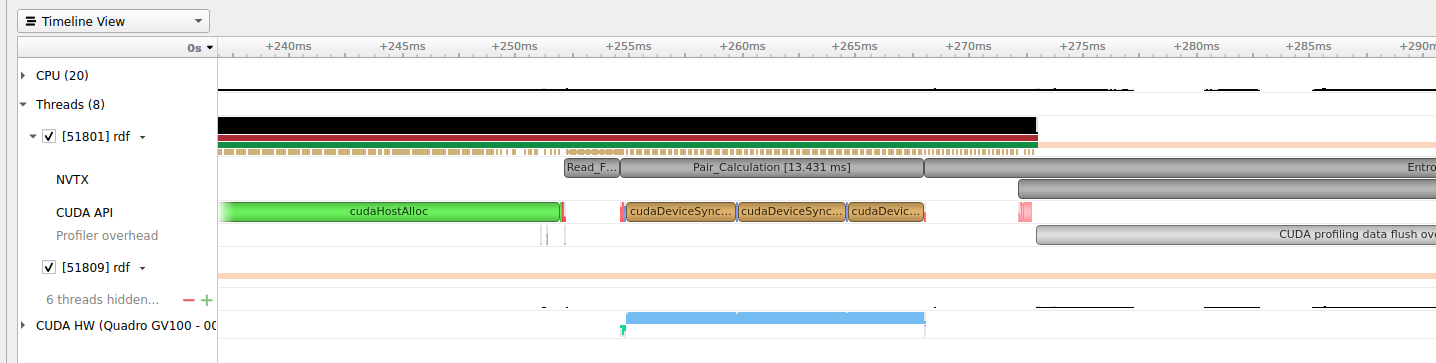
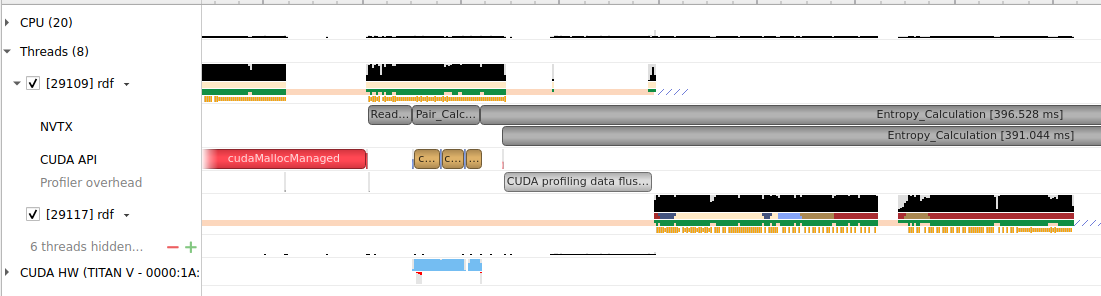
openmp fix,cuda UM added

diff --git a/hpc/nways/nways_labs/nways_MD/English/C/source_code/openmp/SOLUTION/rdf_offload_collapse.cpp b/hpc/nways/nways_labs/nways_MD/English/C/source_code/openmp/SOLUTION/rdf_offload_collapse.cpp
@@ -1,4 +1,3 @@
-// Copyright (c) 2021 NVIDIA Corporation.  All rights reserved.
 #include <stdio.h>
 #include <iostream>
 #include <fstream>
@@ -82,10 +81,13 @@ int main(int argc, char *argv[])
     }
     nvtxRangePop(); //pop for REading file
     cout << "Reading of input file is completed" << endl;
-    //////////////////////////////////////////////////////////////////////////
-    nvtxRangePush("Pair_Calculation");
-    pair_gpu(h_x, h_y, h_z, h_g2, numatm, nconf, xbox, ybox, zbox, nbin);
-    nvtxRangePop(); //Pop for Pair Calculation
+//////////////////////////////////////////////////////////////////////////
+#pragma omp target data map(h_x [0:nconf * numatm], h_y [0:nconf * numatm], h_z [0:nconf * numatm], h_g2 [0:nbin])
+    {
+        nvtxRangePush("Pair_Calculation");
+        pair_gpu(h_x, h_y, h_z, h_g2, numatm, nconf, xbox, ybox, zbox, nbin);
+        nvtxRangePop(); //Pop for Pair Calculation
+    }
     ////////////////////////////////////////////////////////////////////////
     double pi = acos(-1.0);
     double rho = (numatm) / (xbox * ybox * zbox);
@@ -164,33 +166,30 @@ void pair_gpu(const double *d_x, const double *d_y, const double *d_z,
     cut = box * 0.5;
     int count = 0;
     printf("\n %d %d ", nconf, numatm);
-#pragma omp target data map(d_x [0:nconf * numatm], d_y [0:nconf * numatm], d_z [0:nconf * numatm], d_g2 [0:d_bin])
+    for (int frame = 0; frame < nconf; frame++)
     {
-        for (int frame = 0; frame < nconf; frame++)
-        {
-            printf("\n %d  ", frame);
+        printf("\n %d  ", frame);
 #pragma omp target teams distribute parallel for collapse(2) private(dx, dy, dz, r, ig2)
-            for (int id1 = 0; id1 < numatm; id1++)
+        for (int id1 = 0; id1 < numatm; id1++)
+        {
+            for (int id2 = 0; id2 < numatm; id2++)
             {
-                for (int id2 = 0; id2 < numatm; id2++)
+                dx = d_x[frame * numatm + id1] - d_x[frame * numatm + id2];
+                dy = d_y[frame * numatm + id1] - d_y[frame * numatm + id2];
+                dz = d_z[frame * numatm + id1] - d_z[frame * numatm + id2];
+
+                dx = dx - xbox * (round(dx / xbox));
+                dy = dy - ybox * (round(dy / ybox));
+                dz = dz - zbox * (round(dz / zbox));
+
+                r = sqrtf(dx * dx + dy * dy + dz * dz);
+                if (r < cut)
                 {
-                    dx = d_x[frame * numatm + id1] - d_x[frame * numatm + id2];
-                    dy = d_y[frame * numatm + id1] - d_y[frame * numatm + id2];
-                    dz = d_z[frame * numatm + id1] - d_z[frame * numatm + id2];
-
-                    dx = dx - xbox * (round(dx / xbox));
-                    dy = dy - ybox * (round(dy / ybox));
-                    dz = dz - zbox * (round(dz / zbox));
-
-                    r = sqrtf(dx * dx + dy * dy + dz * dz);
-                    if (r < cut)
-                    {
-                        ig2 = (int)(r / del);
+                    ig2 = (int)(r / del);
 #pragma omp atomic
-                        d_g2[ig2] = d_g2[ig2] + 1;
-                    }
+                    d_g2[ig2] = d_g2[ig2] + 1;
                 }
             }
-        } //frame ends
-    }     // end of target map
+        }
+    } //frame ends
 }

diff --git a/hpc/nways/nways_labs/nways_MD/English/C/source_code/openmp/SOLUTION/rdf_offload.cpp b/hpc/nways/nways_labs/nways_MD/English/C/source_code/openmp/SOLUTION/rdf_offload.cpp
@@ -1,4 +1,3 @@
-// Copyright (c) 2021 NVIDIA Corporation.  All rights reserved.
 #include <stdio.h>
 #include <iostream>
 #include <fstream>
@@ -82,10 +81,13 @@ int main(int argc, char *argv[])
 	}
 	nvtxRangePop(); //pop for REading file
 	cout << "Reading of input file is completed" << endl;
-	//////////////////////////////////////////////////////////////////////////
-	nvtxRangePush("Pair_Calculation");
-	pair_gpu(h_x, h_y, h_z, h_g2, numatm, nconf, xbox, ybox, zbox, nbin);
-	nvtxRangePop(); //Pop for Pair Calculation
+//////////////////////////////////////////////////////////////////////////
+#pragma omp target data map(h_x [0:nconf * numatm], h_y [0:nconf * numatm], h_z [0:nconf * numatm], h_g2 [0:nbin])
+	{
+		nvtxRangePush("Pair_Calculation");
+		pair_gpu(h_x, h_y, h_z, h_g2, numatm, nconf, xbox, ybox, zbox, nbin);
+		nvtxRangePop(); //Pop for Pair Calculation
+	}
 	////////////////////////////////////////////////////////////////////////
 	double pi = acos(-1.0);
 	double rho = (numatm) / (xbox * ybox * zbox);
@@ -164,33 +166,31 @@ void pair_gpu(const double *d_x, const double *d_y, const double *d_z,
 	cut = box * 0.5;
 	int count = 0;
 	printf("\n %d %d ", nconf, numatm);
-#pragma omp target data map(d_x [0:nconf * numatm], d_y [0:nconf * numatm], d_z [0:nconf * numatm], d_g2 [0:d_bin])
+
+	for (int frame = 0; frame < nconf; frame++)
 	{
-		for (int frame = 0; frame < nconf; frame++)
-		{
-			printf("\n %d  ", frame);
+		printf("\n %d  ", frame);
 #pragma omp target teams distribute parallel for private(dx, dy, dz, r, ig2)
-			for (int id1 = 0; id1 < numatm; id1++)
+		for (int id1 = 0; id1 < numatm; id1++)
+		{
+			for (int id2 = 0; id2 < numatm; id2++)
 			{
-				for (int id2 = 0; id2 < numatm; id2++)
+				dx = d_x[frame * numatm + id1] - d_x[frame * numatm + id2];
+				dy = d_y[frame * numatm + id1] - d_y[frame * numatm + id2];
+				dz = d_z[frame * numatm + id1] - d_z[frame * numatm + id2];
+
+				dx = dx - xbox * (round(dx / xbox));
+				dy = dy - ybox * (round(dy / ybox));
+				dz = dz - zbox * (round(dz / zbox));
+
+				r = sqrtf(dx * dx + dy * dy + dz * dz);
+				if (r < cut)
 				{
-					dx = d_x[frame * numatm + id1] - d_x[frame * numatm + id2];
-					dy = d_y[frame * numatm + id1] - d_y[frame * numatm + id2];
-					dz = d_z[frame * numatm + id1] - d_z[frame * numatm + id2];
-
-					dx = dx - xbox * (round(dx / xbox));
-					dy = dy - ybox * (round(dy / ybox));
-					dz = dz - zbox * (round(dz / zbox));
-
-					r = sqrtf(dx * dx + dy * dy + dz * dz);
-					if (r < cut)
-					{
-						ig2 = (int)(r / del);
+					ig2 = (int)(r / del);
 #pragma omp atomic
-						d_g2[ig2] = d_g2[ig2] + 1;
-					}
+					d_g2[ig2] = d_g2[ig2] + 1;
 				}
 			}
-		} //frame ends
-	}	  // end of target map
+		}
+	} //frame ends
 }
